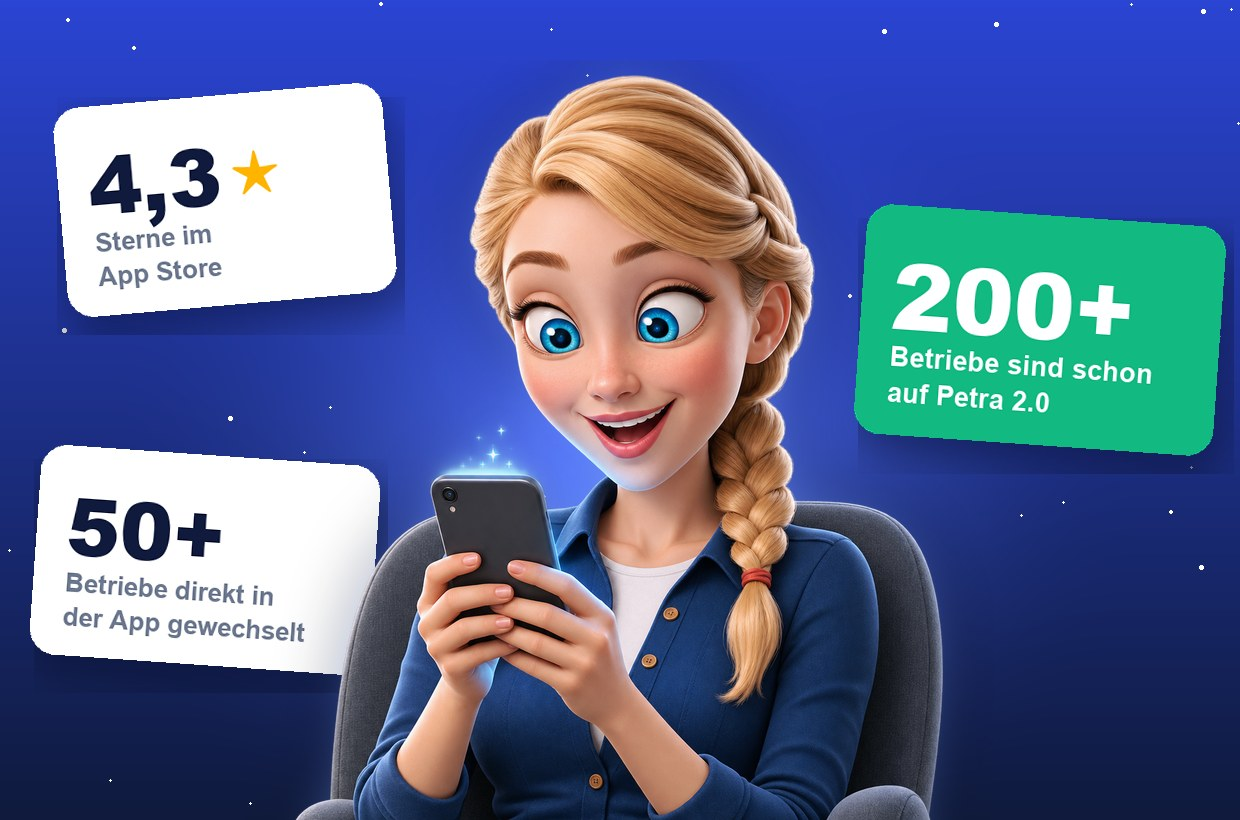
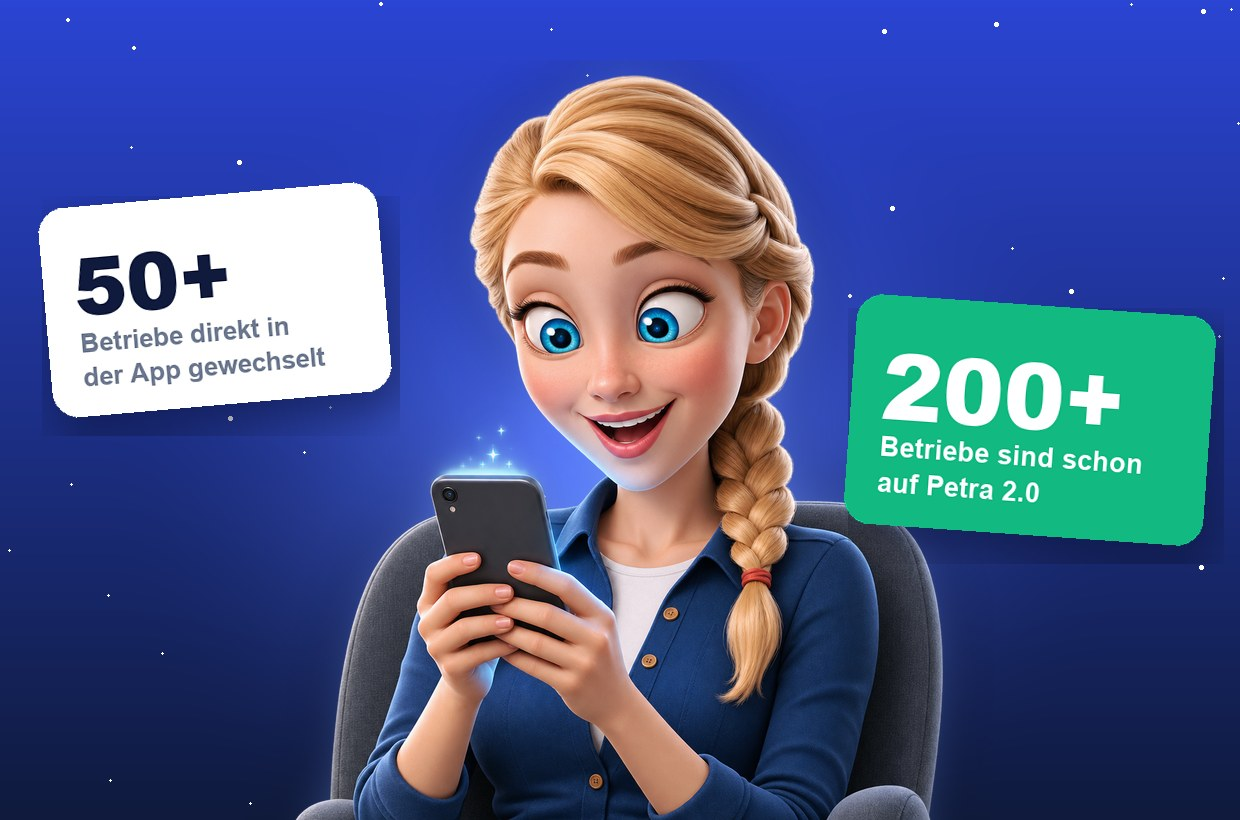
App-Recap: 4,3 Sterne raus, Überschrift nach Hendric

Changed region(s): [[0.0, 0.0915, 0.3371, 0.8232], [0.6742, 0.2439, 1.0, 0.6707]]

diff --git a/newsletter-recap-resend.html b/newsletter-recap-resend.html
@@ -92,16 +92,16 @@
                 <tr>
                   <td class="px28" style="background:#ffffff;padding-top:30px;padding-bottom:32px;border-radius:22px;" bgcolor="#ffffff">
                     <p style="font-family:Arial,Helvetica,sans-serif;font-size:12px;font-weight:800;letter-spacing:1.8px;text-transform:uppercase;color:#8b96ad;margin:0 0 10px;text-align:center;">Die ersten Tage</p>
-                    <p class="h2" style="margin:0 0 20px;text-align:center;font-size:28px;line-height:34px;">Da ist richtig was los.</p>
+                    <p class="h2" style="margin:0 0 20px;text-align:center;font-size:28px;line-height:34px;">Das sagen die ersten Nutzer.</p>
                     <table role="presentation" width="100%" cellspacing="0" cellpadding="0" border="0" style="margin:0 0 24px;">
                       <tr>
                         <td align="center" bgcolor="#1d2f8a" style="border-radius:18px;font-size:0;line-height:0;">
-                          <img src="https://raw.githubusercontent.com/jesko-maker/hallopetra-referral/main/recap-petra-stimmen.jpg" width="620" height="410" alt="Petra staunt über die App. Dazu: 4,3 Sterne im App Store, 50+ Betriebe direkt in der App gewechselt, 200+ Betriebe auf Petra 2.0" style="width:100%;max-width:620px;height:auto;display:block;border-radius:18px;color:#ffffff;font-size:22px;font-weight:bold;background-color:#1d2f8a;">
+                          <img src="https://raw.githubusercontent.com/jesko-maker/hallopetra-referral/main/recap-petra-stimmen.jpg" width="620" height="410" alt="Petra staunt über die App. Dazu: 50+ Betriebe direkt in der App gewechselt, 200+ Betriebe auf Petra 2.0" style="width:100%;max-width:620px;height:auto;display:block;border-radius:18px;color:#ffffff;font-size:22px;font-weight:bold;background-color:#1d2f8a;">
                         </td>
                       </tr>
                     </table>
                     <p class="p" style="margin:0;">Seit dem Start sind über 200 Betriebe auf Petra 2.0 umgestiegen, über 50 davon direkt in der App. Und die ersten Rückmeldungen sind da.</p>
-                    <p style="font-family:Arial,Helvetica,sans-serif;font-size:12px;font-weight:800;letter-spacing:1.8px;text-transform:uppercase;color:#8b96ad;margin:26px 0 14px;text-align:center;">Das sagen die ersten Nutzer</p><table role="presentation" width="100%" cellspacing="0" cellpadding="0" border="0" style="margin:0 0 12px;border-radius:18px;" bgcolor="#f3f5fc">
+                    <div style="height:22px;line-height:22px;font-size:0;">&nbsp;</div><table role="presentation" width="100%" cellspacing="0" cellpadding="0" border="0" style="margin:0 0 12px;border-radius:18px;" bgcolor="#f3f5fc">
                       <tr><td style="padding:20px 20px 18px;background:#f3f5fc;border-radius:18px;" bgcolor="#f3f5fc">
                         <p style="font-family:Arial,Helvetica,sans-serif;font-size:16px;line-height:25px;color:#0f1a3c;margin:0 0 14px;font-weight:700;">&#8222;Potenzial ohne Ende. Wirklich eine perfekte Ergänzung zur ohnehin genialen Petra. Besonders muss ich das Team loben, welches schnell reagiert und verbessert, in einem super Tempo. Das hat richtig Potenzial und hat unseren Alltag verbessert.&#8220;</p>
                         <table role="presentation" cellspacing="0" cellpadding="0" border="0"><tr>

diff --git a/newsletter-launch/build_newsletter_recap.py b/newsletter-launch/build_newsletter_recap.py
@@ -42,7 +42,7 @@ assert _sp in html
 visual = f'''<table role="presentation" width="100%" cellspacing="0" cellpadding="0" border="0" style="margin:0 0 24px;">
                       <tr>
                         <td align="center" bgcolor="#1d2f8a" style="border-radius:18px;font-size:0;line-height:0;">
-                          <img src="{RAW}recap-petra-stimmen.jpg" width="620" height="410" alt="Petra staunt über die App. Dazu: 4,3 Sterne im App Store, 50+ Betriebe direkt in der App gewechselt, 200+ Betriebe auf Petra 2.0" style="width:100%;max-width:620px;height:auto;display:block;border-radius:18px;color:#ffffff;font-size:22px;font-weight:bold;background-color:#1d2f8a;">
+                          <img src="{RAW}recap-petra-stimmen.jpg" width="620" height="410" alt="Petra staunt über die App. Dazu: 50+ Betriebe direkt in der App gewechselt, 200+ Betriebe auf Petra 2.0" style="width:100%;max-width:620px;height:auto;display:block;border-radius:18px;color:#ffffff;font-size:22px;font-weight:bold;background-color:#1d2f8a;">
                         </td>
                       </tr>
                     </table>'''
@@ -72,7 +72,7 @@ def anon(letter="&#8222;"):
 
 
 KUHL_LOGO = f'<img src="{RAW}kuhlmann-logo.png" width="40" height="40" alt="Kuhlmann Gebäudetechnik" style="width:40px;height:40px;border-radius:10px;display:block;">'
-voices = (f'<p style="{F}font-size:12px;font-weight:800;letter-spacing:1.8px;text-transform:uppercase;color:#8b96ad;margin:26px 0 14px;text-align:center;">Das sagen die ersten Nutzer</p>'
+voices = ('<div style="height:22px;line-height:22px;font-size:0;">&nbsp;</div>'
           + testi(KUHL_LOGO, "Kuhlmann Gebäudetechnik", "Bewertung im App Store",
                   "Potenzial ohne Ende. Wirklich eine perfekte Ergänzung zur ohnehin genialen Petra. Besonders muss ich das Team loben, welches schnell reagiert und verbessert, in einem super Tempo. Das hat richtig Potenzial und hat unseren Alltag verbessert.", stars=True)
           + testi(anon(), "Inhaber eines Handwerksbetriebs", "per E-Mail an uns",
@@ -90,7 +90,7 @@ quote = f'''<table role="presentation" width="100%" cellspacing="0" cellpadding=
 
 cards = [
     card(f'''                    <p style="{F}font-size:12px;font-weight:800;letter-spacing:1.8px;text-transform:uppercase;color:#8b96ad;margin:0 0 10px;text-align:center;">Die ersten Tage</p>
-                    <p class="h2" style="margin:0 0 20px;text-align:center;font-size:28px;line-height:34px;">Da ist richtig was los.</p>
+                    <p class="h2" style="margin:0 0 20px;text-align:center;font-size:28px;line-height:34px;">Das sagen die ersten Nutzer.</p>
                     {visual}
                     <p class="p" style="margin:0;">Seit dem Start sind über 200 Betriebe auf Petra 2.0 umgestiegen, über 50 davon direkt in der App. Und die ersten Rückmeldungen sind da.</p>
                     {voices}

diff --git a/newsletter-launch/build_recap_visual.py b/newsletter-launch/build_recap_visual.py
@@ -101,8 +101,7 @@ def stat_card(big, line1, line2, w=330, bg=(255, 255, 255, 255), fg=(15, 26, 60)
 
 
 # Karten hinter Petra: ein Zitat (wörtlich, Bewertung vom 17.11.) + echte Zahlen
-place(stat_card("4,3", "Sterne im", "App Store", star=True), 225, 200, 5)
-place(stat_card("50+", "Betriebe direkt in", "der App gewechselt", w=340), 205, 560, -4)
+place(stat_card("50+", "Betriebe direkt in", "der App gewechselt", w=340), 215, 300, 5)
 
 # Petra vorne, unten mittig
 p = Image.open(os.path.join(HERE, "petra-verzaubert-raw.png")).convert("RGBA")
@@ -124,7 +123,7 @@ dn.rounded_rectangle([0, 0, 359, 229], radius=26, fill=(18, 185, 129, 255))
 dn.text((30, 22), "200+", font=font(FBL, 92), fill=(255, 255, 255))
 dn.text((32, 136), "Betriebe sind schon", font=font(FB, 27), fill=(255, 255, 255))
 dn.text((32, 172), "auf Petra 2.0", font=font(FB, 27), fill=(255, 255, 255))
-place(num, 1040, 330, -4)
+place(num, 1030, 420, -4)
 
 img.convert("RGB").save(os.path.join(ROOT, "recap-petra-stimmen.jpg"), quality=88, optimize=True, progressive=True)
 print("ok", os.path.getsize(os.path.join(ROOT, "recap-petra-stimmen.jpg")))
